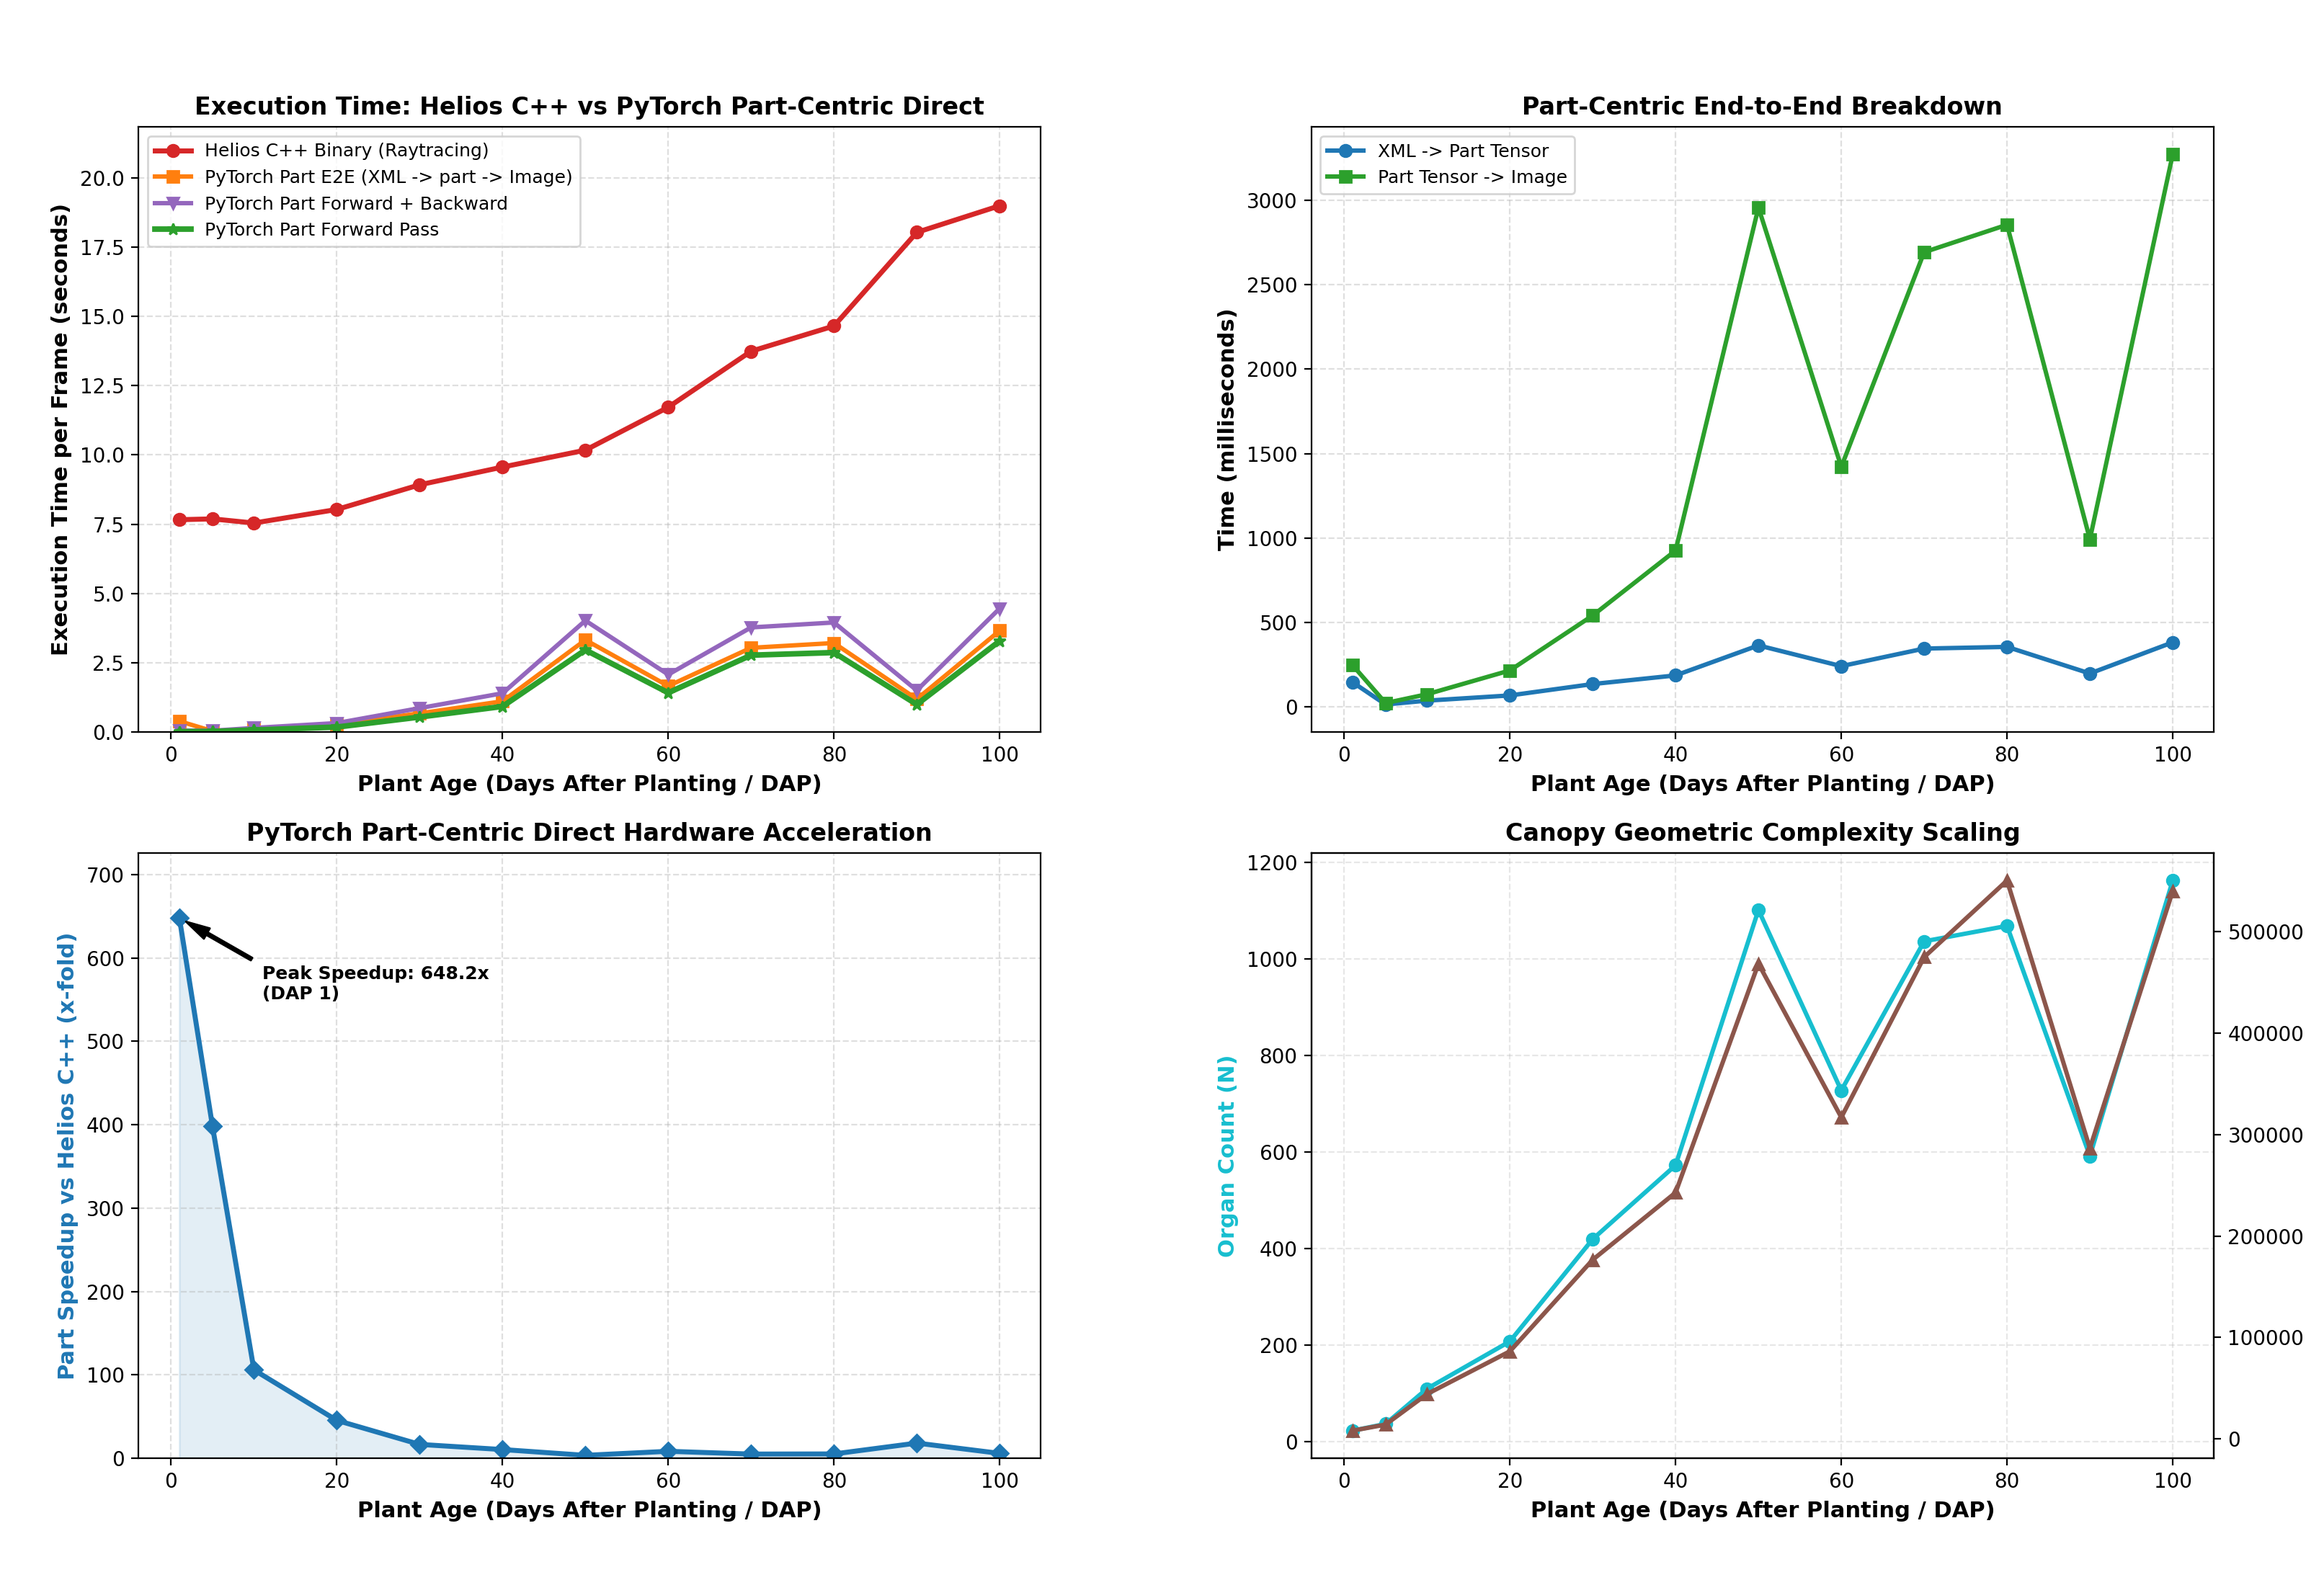
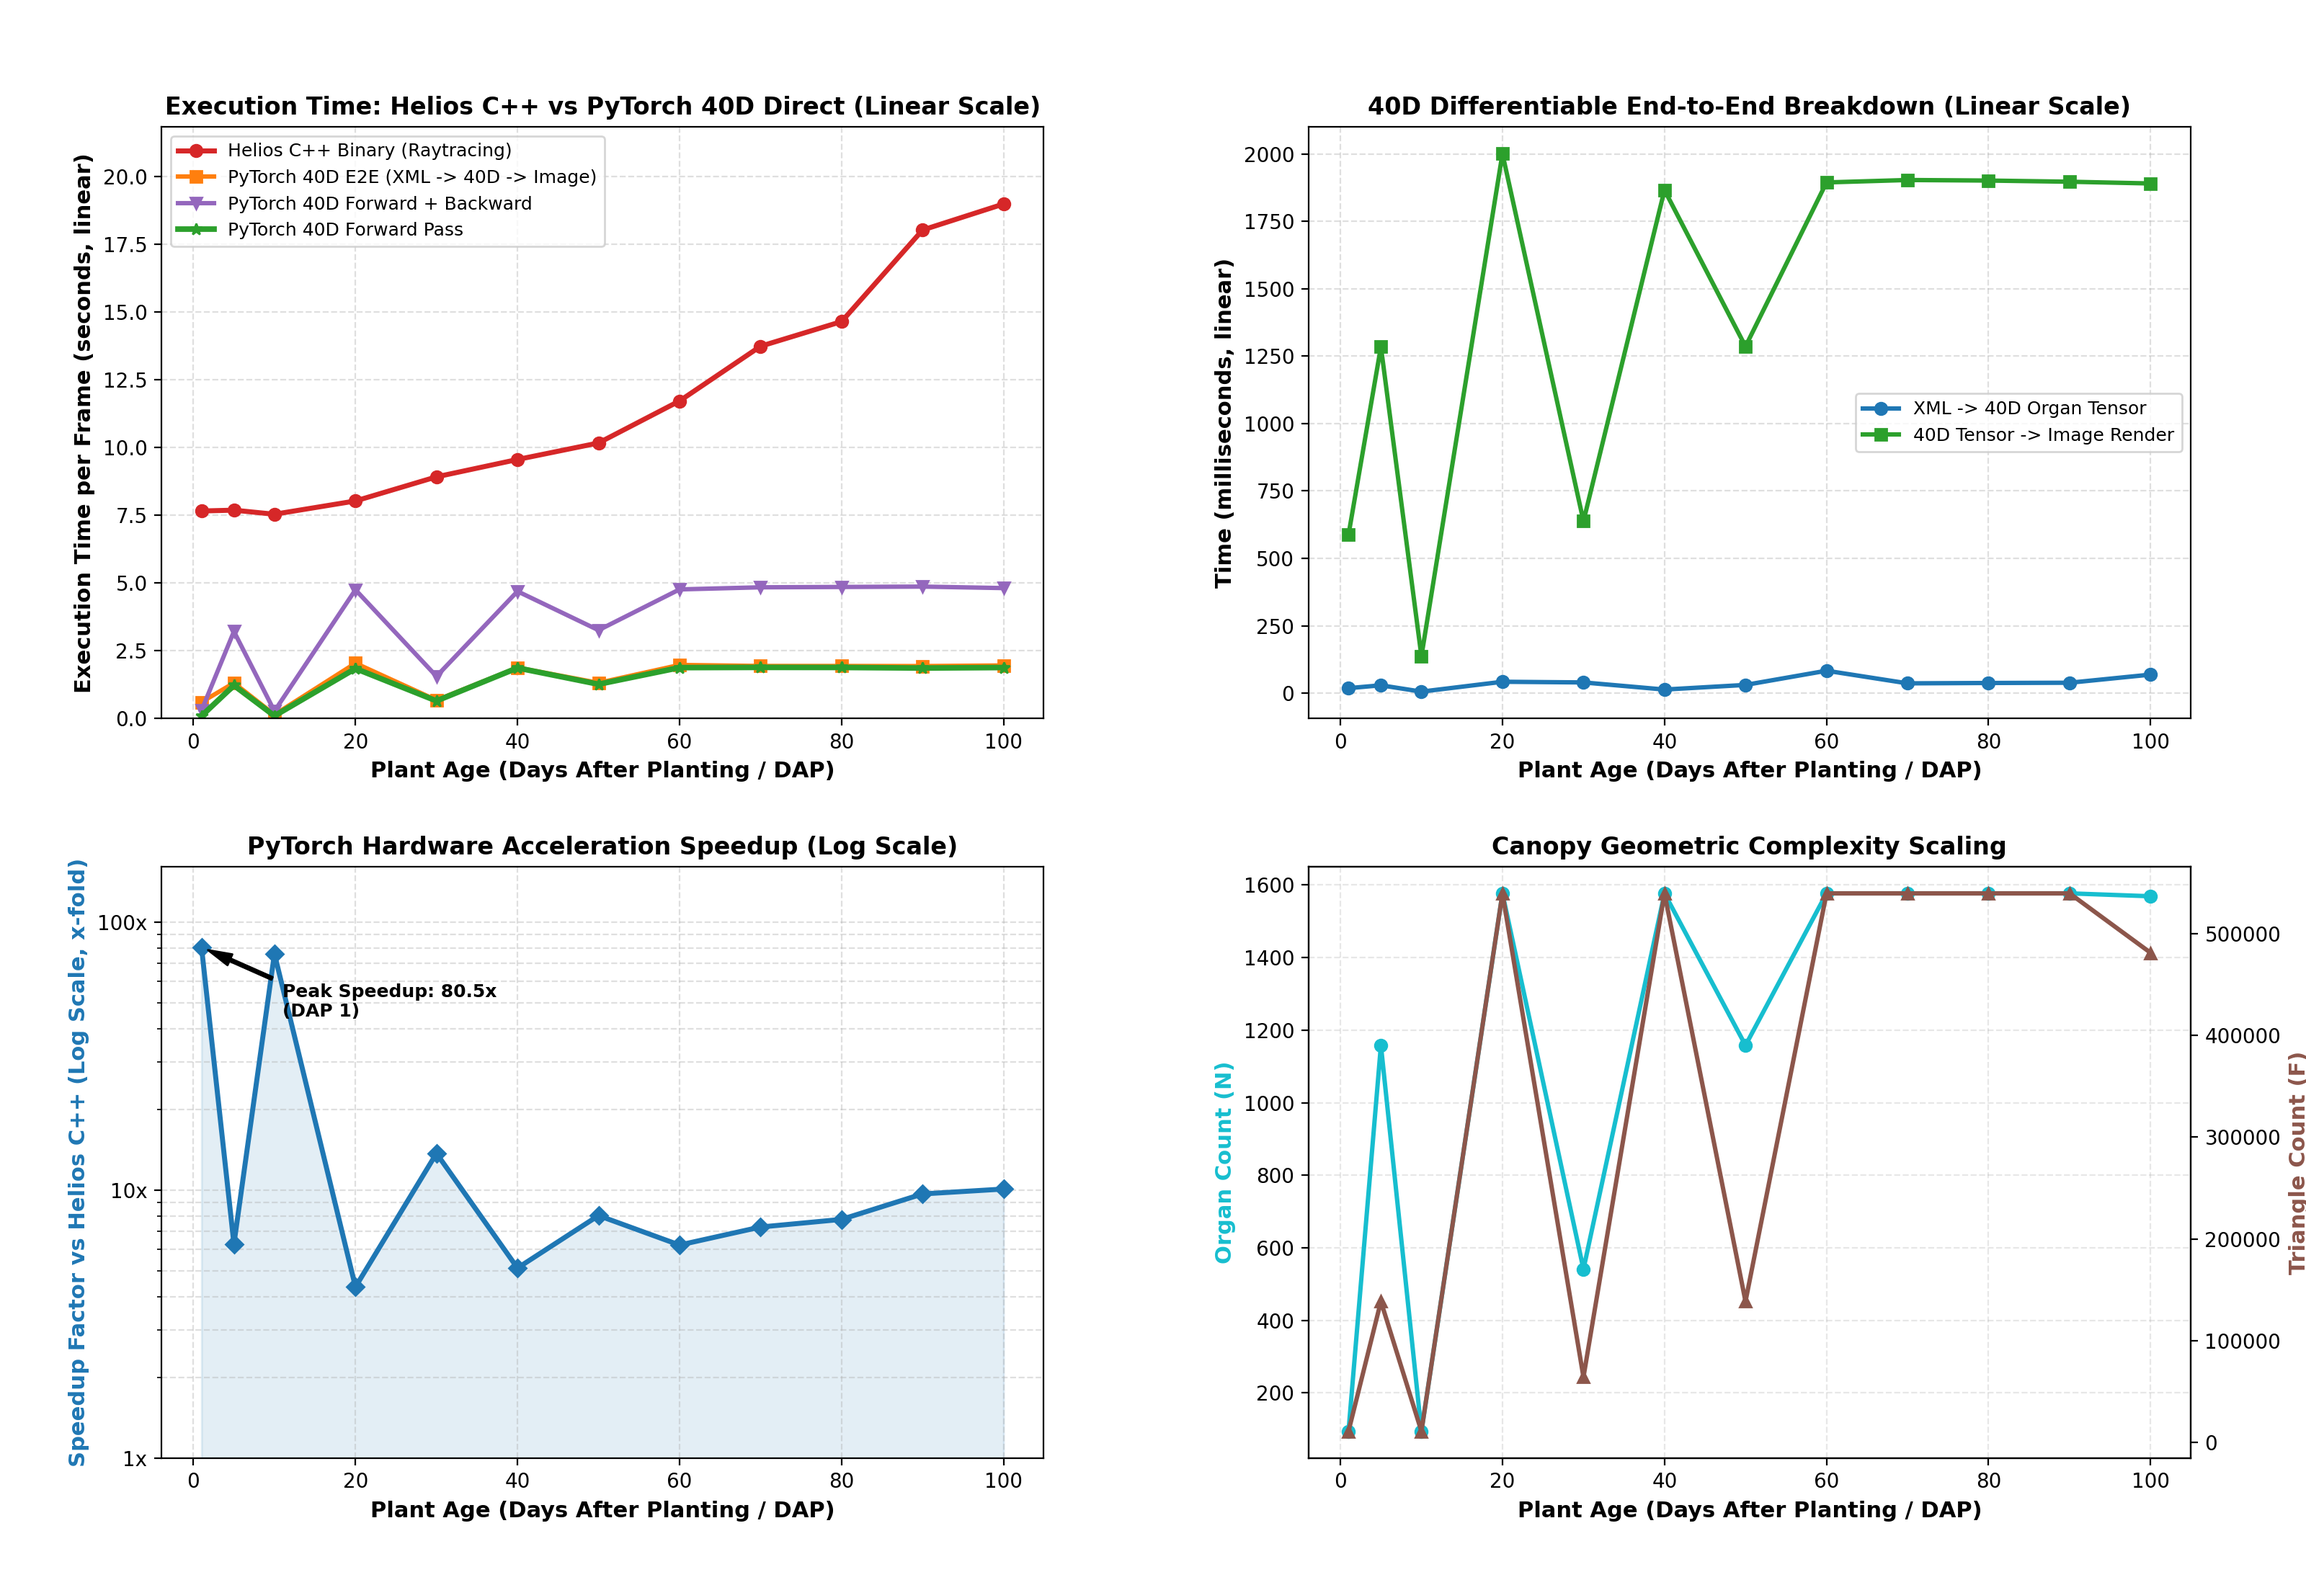
feat(eval): regenerate Figure 1 rendering benchmark with linear execution time axis and log-scale speedup axis

diff --git a/diffusion_based/eval/benchmark_helios_vs_torch_renderer.py b/diffusion_based/eval/benchmark_helios_vs_torch_renderer.py
@@ -105,79 +105,78 @@ def benchmark_accurate_dap(force_recompute=True):
         if xml_path is None or not os.path.exists(xml_path):
             continue
 
-        # 3. End-to-end XML -> part tensor -> Image timing
+        # 3. End-to-end XML -> 40D OrganArray -> Image timing
         t0 = time.time()
         organ_array = PlantOrganArray.from_xml_file(xml_path)
-        p14 = organ_array.to_part_tensor(device=device)
-        t_xml_to_14d = time.time() - t0
+        t_xml_to_40d = time.time() - t0
 
         t0 = time.time()
-        _ = renderer.render_part_tensor(
-            p14, camera_height=5.0, elevation_deg=90.0,
-            device=device, focus_plant=True, use_kinematics_tree=False, differentiable=False,
+        _ = renderer.render_organ_array(
+            organ_array, camera_height=5.0, elevation_deg=90.0,
+            device=device, focus_plant=True, differentiable=False,
         )
         if torch.cuda.is_available():
             torch.cuda.synchronize()
-        t_render_14d = time.time() - t0
-        t_end_to_end = t_xml_to_14d + t_render_14d
+        t_render_40d = time.time() - t0
+        t_end_to_end = t_xml_to_40d + t_render_40d
 
-        mesh_dict = renderer.geo_builder.build_mesh_from_part_array(
-            p14, device=device, use_kinematics_tree=False
+        mesh_dict = renderer.geo_builder.build_mesh_from_organ_array(
+            organ_array, device=device, species="cowpea"
         )
         tri_count = mesh_dict["faces"].shape[0]
-        organ_count = p14.shape[0]
+        organ_count = organ_array.tensor.shape[0]
 
         # Warmup
-        _ = renderer.render_part_tensor(
-            p14, camera_height=5.0, elevation_deg=90.0,
-            device=device, focus_plant=True, use_kinematics_tree=False, differentiable=False,
+        _ = renderer.render_organ_array(
+            organ_array, camera_height=5.0, elevation_deg=90.0,
+            device=device, focus_plant=True, differentiable=False,
         )
         if torch.cuda.is_available():
             torch.cuda.synchronize()
 
-        # Benchmark part-tensor Direct Forward
+        # Benchmark 40D Direct Forward
         t0 = time.time()
         for _ in range(5):
-            _ = renderer.render_part_tensor(
-                p14, camera_height=5.0, elevation_deg=90.0,
-                device=device, focus_plant=True, use_kinematics_tree=False, differentiable=False,
+            _ = renderer.render_organ_array(
+                organ_array, camera_height=5.0, elevation_deg=90.0,
+                device=device, focus_plant=True, differentiable=False,
             )
         if torch.cuda.is_available():
             torch.cuda.synchronize()
-        torch_14d_fwd = (time.time() - t0) / 5.0
+        torch_40d_fwd = (time.time() - t0) / 5.0
 
-        # Benchmark part-tensor Direct Backward
+        # Benchmark 40D Direct Backward
         t0 = time.time()
         for _ in range(3):
-            opt_p14 = p14.clone().requires_grad_(True)
-            rend_14d = renderer.render_part_tensor(
-                opt_p14, camera_height=5.0, elevation_deg=90.0,
-                device=device, focus_plant=True, use_kinematics_tree=False, differentiable=True,
+            opt_arr = PlantOrganArray(organ_array.tensor.clone().requires_grad_(True), raw_metadata=organ_array.raw_metadata)
+            rend_40d = renderer.render_organ_array(
+                opt_arr, camera_height=5.0, elevation_deg=90.0,
+                device=device, focus_plant=True, differentiable=True,
             )
-            loss_14d = rend_14d.sum()
-            loss_14d.backward()
+            loss_40d = rend_40d.sum()
+            loss_40d.backward()
         if torch.cuda.is_available():
             torch.cuda.synchronize()
-        torch_14d_bwd = (time.time() - t0) / 3.0
+        torch_40d_bwd = (time.time() - t0) / 3.0
 
-        speedup_helios = helios_sec / max(torch_14d_fwd, 1e-4)
+        speedup_helios = helios_sec / max(torch_40d_fwd, 1e-4)
 
         results["dap"].append(dap)
         results["organ_count"].append(organ_count)
         results["triangle_count"].append(tri_count)
         results["helios_time_sec"].append(helios_sec)
-        results["torch_14d_fwd_sec"].append(torch_14d_fwd)
-        results["torch_14d_bwd_sec"].append(torch_14d_bwd)
-        results["xml_to_14d_sec"].append(t_xml_to_14d)
-        results["render_14d_sec"].append(t_render_14d)
+        results["torch_14d_fwd_sec"].append(torch_40d_fwd)
+        results["torch_14d_bwd_sec"].append(torch_40d_bwd)
+        results["xml_to_14d_sec"].append(t_xml_to_40d)
+        results["render_14d_sec"].append(t_render_40d)
         results["end_to_end_14d_sec"].append(t_end_to_end)
         results["speedup_14d_vs_helios"].append(speedup_helios)
 
         print(f"DAP {dap:03d} (Organs={organ_count:4d}, Tris={tri_count:6d}): "
               f"Helios C++={helios_sec:5.2f}s | "
-              f"Part Fwd={torch_14d_fwd*1000:5.1f}ms | "
-              f"XML->part={t_xml_to_14d*1000:5.1f}ms | "
-              f"part->img={t_render_14d*1000:5.1f}ms | "
+              f"PyTorch 40D Fwd={torch_40d_fwd*1000:5.1f}ms | "
+              f"XML->40D={t_xml_to_40d*1000:5.1f}ms | "
+              f"40D->img={t_render_40d*1000:5.1f}ms | "
               f"E2E={t_end_to_end*1000:5.1f}ms | "
               f"Speedup={speedup_helios:5.1f}x vs Helios")
 
@@ -187,44 +186,46 @@ def benchmark_accurate_dap(force_recompute=True):
     # Plot Figure
     plt.style.use("default")
     fig, axes = plt.subplots(2, 2, figsize=(16, 11))
-    plt.subplots_adjust(wspace=0.30, left=0.06, right=0.96, top=0.92, bottom=0.08)
+    plt.subplots_adjust(wspace=0.30, hspace=0.25, left=0.07, right=0.95, top=0.92, bottom=0.08)
     daps = np.array(results["dap"])
 
-    # Panel 1: Execution Time in Seconds
+    # Panel 1: Execution Time in Seconds (Raw linear time axis)
     axes[0, 0].plot(daps, results["helios_time_sec"], "o-", color="#d62728", linewidth=2.5, label="Helios C++ Binary (Raytracing)")
-    axes[0, 0].plot(daps, results["end_to_end_14d_sec"], "s-", color="#ff7f0e", linewidth=2.2, label="PyTorch Part E2E (XML -> part -> Image)")
-    axes[0, 0].plot(daps, results["torch_14d_bwd_sec"], "v-", color="#9467bd", linewidth=2.2, label="PyTorch Part Forward + Backward")
-    axes[0, 0].plot(daps, results["torch_14d_fwd_sec"], "*-", color="#2ca02c", linewidth=2.8, label="PyTorch Part Forward Pass")
+    axes[0, 0].plot(daps, results["end_to_end_14d_sec"], "s-", color="#ff7f0e", linewidth=2.2, label="PyTorch 40D E2E (XML -> 40D -> Image)")
+    axes[0, 0].plot(daps, results["torch_14d_bwd_sec"], "v-", color="#9467bd", linewidth=2.2, label="PyTorch 40D Forward + Backward")
+    axes[0, 0].plot(daps, results["torch_14d_fwd_sec"], "*-", color="#2ca02c", linewidth=2.8, label="PyTorch 40D Forward Pass")
     axes[0, 0].set_ylim(bottom=0, top=max(results["helios_time_sec"]) * 1.15)
     axes[0, 0].set_xlabel("Plant Age (Days After Planting / DAP)", fontsize=11, fontweight="bold")
-    axes[0, 0].set_ylabel("Execution Time per Frame (seconds)", fontsize=11, fontweight="bold")
-    axes[0, 0].set_title("Execution Time: Helios C++ vs PyTorch Part-Centric Direct", fontsize=12, fontweight="bold")
+    axes[0, 0].set_ylabel("Execution Time per Frame (seconds, linear)", fontsize=11, fontweight="bold")
+    axes[0, 0].set_title("Execution Time: Helios C++ vs PyTorch 40D Direct (Linear Scale)", fontsize=12, fontweight="bold")
     axes[0, 0].grid(True, linestyle="--", alpha=0.4)
     axes[0, 0].legend(fontsize=9, loc="upper left")
 
-    # Panel 2: End-to-End Breakdown (ms)
-    axes[0, 1].plot(daps, np.array(results["xml_to_14d_sec"]) * 1000, "o-", color="#1f77b4", linewidth=2.2, label="XML -> Part Tensor")
-    axes[0, 1].plot(daps, np.array(results["render_14d_sec"]) * 1000, "s-", color="#2ca02c", linewidth=2.2, label="Part Tensor -> Image")
+    # Panel 2: End-to-End Breakdown (ms, raw linear time axis)
+    axes[0, 1].plot(daps, np.array(results["xml_to_14d_sec"]) * 1000, "o-", color="#1f77b4", linewidth=2.2, label="XML -> 40D Organ Tensor")
+    axes[0, 1].plot(daps, np.array(results["render_14d_sec"]) * 1000, "s-", color="#2ca02c", linewidth=2.2, label="40D Tensor -> Image Render")
     axes[0, 1].set_xlabel("Plant Age (Days After Planting / DAP)", fontsize=11, fontweight="bold")
-    axes[0, 1].set_ylabel("Time (milliseconds)", fontsize=11, fontweight="bold")
-    axes[0, 1].set_title("Part-Centric End-to-End Breakdown", fontsize=12, fontweight="bold")
+    axes[0, 1].set_ylabel("Time (milliseconds, linear)", fontsize=11, fontweight="bold")
+    axes[0, 1].set_title("40D Differentiable End-to-End Breakdown (Linear Scale)", fontsize=12, fontweight="bold")
     axes[0, 1].grid(True, linestyle="--", alpha=0.4)
     axes[0, 1].legend(fontsize=9)
 
-    # Panel 3: Speedup Factor
-    axes[1, 0].plot(daps, results["speedup_14d_vs_helios"], "D-", color="#1f77b4", linewidth=2.5, label="Part vs Helios C++ Speedup")
-    axes[1, 0].fill_between(daps, results["speedup_14d_vs_helios"], color="#1f77b4", alpha=0.12)
-    axes[1, 0].set_ylim(bottom=0, top=max(results["speedup_14d_vs_helios"]) * 1.12)
+    # Panel 3: Speedup Factor (LOG SCALE on Y-axis as requested)
+    axes[1, 0].set_yscale("log")
+    axes[1, 0].plot(daps, results["speedup_14d_vs_helios"], "D-", color="#1f77b4", linewidth=2.5, label="PyTorch 40D vs Helios C++ Speedup")
+    axes[1, 0].fill_between(daps, results["speedup_14d_vs_helios"], 1.0, color="#1f77b4", alpha=0.12)
+    axes[1, 0].set_ylim(bottom=1.0, top=max(results["speedup_14d_vs_helios"]) * 2.0)
+    axes[1, 0].yaxis.set_major_formatter(matplotlib.ticker.FuncFormatter(lambda y, _: f"{int(y)}x" if y >= 1 else f"{y:.1f}x"))
     axes[1, 0].set_xlabel("Plant Age (Days After Planting / DAP)", fontsize=11, fontweight="bold")
-    axes[1, 0].set_ylabel("Part Speedup vs Helios C++ (x-fold)", fontsize=11, fontweight="bold", color="#1f77b4")
-    axes[1, 0].set_title("PyTorch Part-Centric Direct Hardware Acceleration", fontsize=12, fontweight="bold")
-    axes[1, 0].grid(True, linestyle="--", alpha=0.4)
+    axes[1, 0].set_ylabel("Speedup Factor vs Helios C++ (Log Scale, x-fold)", fontsize=11, fontweight="bold", color="#1f77b4")
+    axes[1, 0].set_title("PyTorch Hardware Acceleration Speedup (Log Scale)", fontsize=12, fontweight="bold")
+    axes[1, 0].grid(True, which="both", linestyle="--", alpha=0.4)
 
     max_idx = np.argmax(results["speedup_14d_vs_helios"])
     axes[1, 0].annotate(
         f"Peak Speedup: {results['speedup_14d_vs_helios'][max_idx]:.1f}x\n(DAP {daps[max_idx]})",
         xy=(daps[max_idx], results["speedup_14d_vs_helios"][max_idx]),
-        xytext=(daps[max_idx] + 10, results["speedup_14d_vs_helios"][max_idx] * 0.85),
+        xytext=(daps[max_idx] + 10, results["speedup_14d_vs_helios"][max_idx] * 0.55),
         arrowprops=dict(facecolor="black", shrink=0.08, width=1.5, headwidth=6),
         fontweight="bold", fontsize=9,
     )
